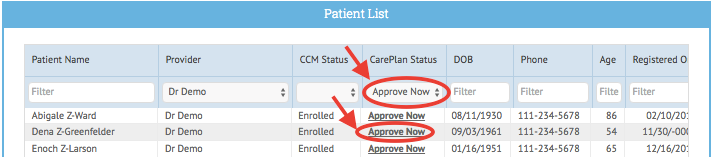
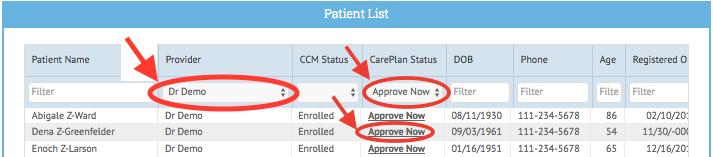
Email fix

Changed region(s): [[0.1543, 0.2293, 0.432, 0.7134]]

diff --git a/resources/views/emails/careplansPendingApproval.blade.php b/resources/views/emails/careplansPendingApproval.blade.php
@@ -8,19 +8,22 @@
 </p>
 
 <p>
-    We are delighted to report <b style="color: #0070C0;">{{ $numberOfCareplans }} care plans</b> awaiting your approval.
+    We are delighted to report <b style="color: #0070C0;">{{ $numberOfCareplans }} care plans</b> awaiting your
+    approval.
 </p>
 
 
 <p>
     To review and approve, simply
     <a href="https://www.careplanmanager.com/manage-patients/listing">
-        view patient list here</a>, then filter the Patient List to "Approve Now" using the filter header in the "CarePlan Status" column:
+        view patient list here</a>, then filter to "Approve Now" using the filter header in the "CarePlan Status"
+    column. You may also want to filter for your name in the “Provider” column:
 </p>
 
 <img src="{{ $message->embed(public_path('/img/patient-listing-example.png')) }}" alt="Patient Listing example image.">
 <p>
-    To review and approve, simply view patient list here, then filter to "Approve Now" using the filter header in the "CarePlan Status" column. You may also want to filter for your name in the “Provider” column:
+    Click the "Approve Now" link (above) for a patient of your choice and you will be taken to the Care Plan page where
+    you will review the care plan (below).
 </p>
 
 <img src="{{ $message->embed(public_path('/img/careplan-example.png')) }}" alt="CarePlan example image.">
